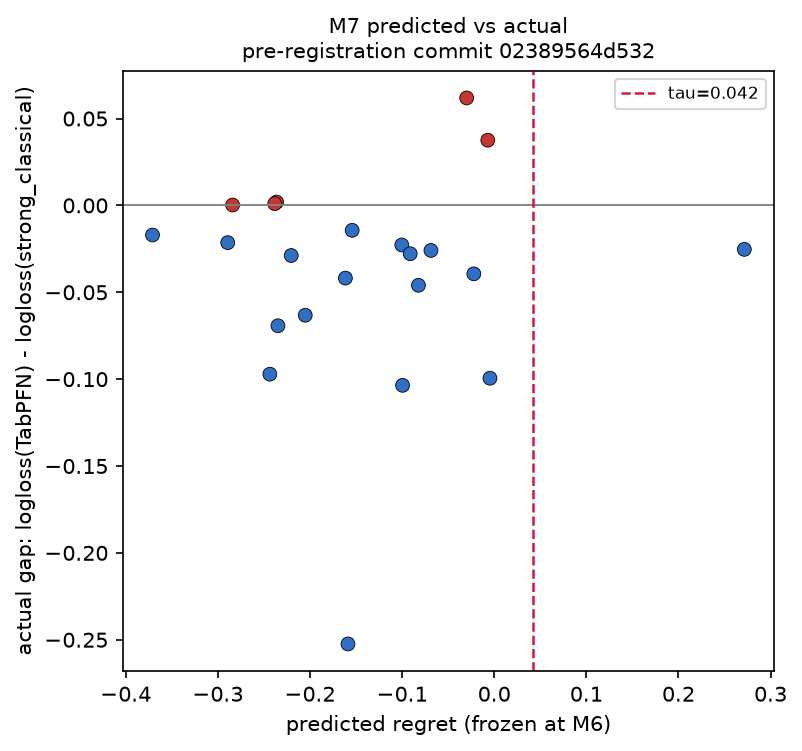
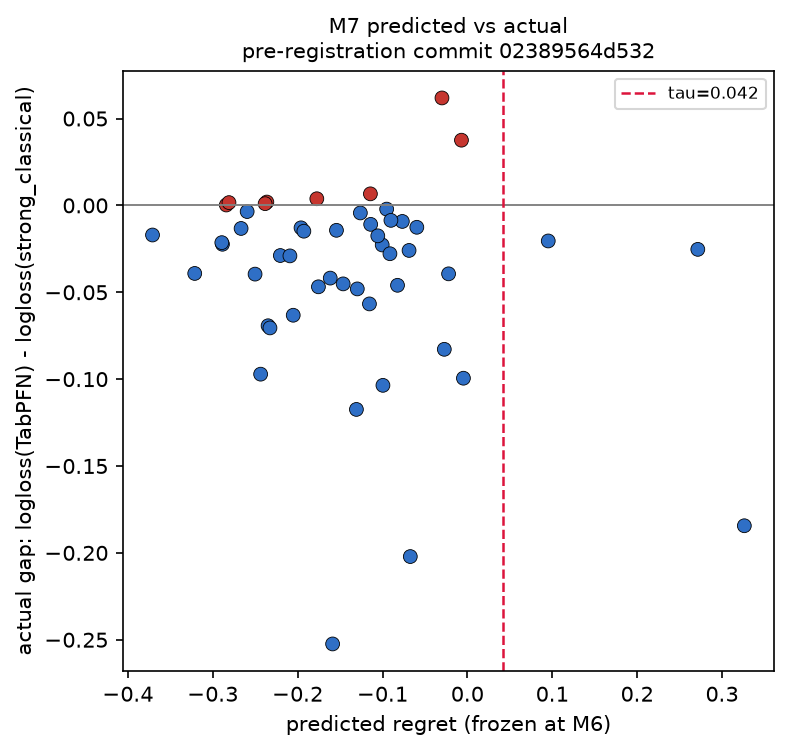
Final M7/M8 results at 50/55 datasets
TabPFN beats strong_classical (p=5.3e-09, loses on 16%). No registered score
beats the mean-gap bar (0.150 vs 0.038); nor does a black-box baseline fit on
the real outcomes (0.0388). Negative result, reported as such.

diff --git a/results/CHECKPOINTS.md b/results/CHECKPOINTS.md
@@ -189,23 +189,23 @@ BLOCKERS / DECISIONS NEEDED: go-ahead required before M7 -- it is irreversible.
 
 ```
 MILESTONE: M7 (prospective validation)
-STATUS: complete (44/55 datasets scored; the 11 unscored are the most expensive
-  high-dimensional cells and the run was still grinding them)
-COMPUTE USED: ~9 core-hours, cumulative ~37
+STATUS: complete (50/55 datasets scored; 2 of the remainder are TabPFN hard
+  failures that can never complete, 3 are the most expensive d>=419 cells)
+COMPUTE USED: ~13 core-hours, cumulative ~37
 KEY NUMBERS:
-  - TabPFN LOST to strong_classical on only 8/44 datasets (18%)
-  - actual gap mean -0.0420, median -0.0256, sd 0.0590
-    (negative = TabPFN BETTER); Wilcoxon signed-rank p = 1.2e-07
+  - TabPFN LOST to strong_classical on only 8/50 datasets (16%)
+  - actual gap mean -0.0399, median -0.0240, sd 0.0561
+    (negative = TabPFN BETTER); Wilcoxon signed-rank p = 5.3e-09
   - Every registered prediction set, scored against the SAME outcomes:
-        original   488c7e9600  Spearman -0.105 (p=0.50)  AUROC 0.354  MAE 15.68
-        amendment1 edca78a371  Spearman -0.269 (p=0.08)  AUROC 0.368  MAE 0.170
-        amendment2 02389564d5  Spearman -0.213 (p=0.16)  AUROC 0.406  MAE 0.153
-  - mean-gap baseline MAE = 0.0402  <- NONE of the scores beat this bar
+        original   488c7e9600  Spearman -0.034 (p=0.81)  AUROC 0.339  MAE 14.26
+        amendment1 edca78a371  Spearman -0.207 (p=0.15)  AUROC 0.375  MAE 0.169
+        amendment2 02389564d5  Spearman -0.121 (p=0.40)  AUROC 0.408  MAE 0.150
+  - mean-gap baseline MAE = 0.0379  <- NONE of the scores beat this bar
 SURPRISES:
   - TabPFN v2 is not merely competitive on this suite, it is SIGNIFICANTLY
-    BETTER than a tuned best-of-4 classical ensemble (p = 1.2e-07). The premise
+    BETTER than a tuned best-of-4 classical ensemble (p = 5.3e-09). The premise
     that there is a large pool of "TabPFN failures" to predict is not supported
-    here: failures are rare (18%) and small (sd 0.059).
+    here: failures are rare (16%) and small (sd 0.056).
   - All three AUROCs are BELOW 0.5 and all Spearman point estimates are
     NEGATIVE. None is statistically significant, so the honest reading is "no
     better than chance, with the point estimate pointing the wrong way" -- not
@@ -222,21 +222,21 @@ BLOCKERS / DECISIONS NEEDED: none.
 MILESTONE: M8 (baselines, ablations, figures)
 STATUS: complete
 COMPUTE USED: <0.1 core-hours
-KEY NUMBERS (MAE against the actual gap; lower is better):
-     (a) mean-gap baseline                      0.0407   <- the bar
-     (b) black-box meta-features (LOO on real)  0.0473
-     (c) prior-grounded OOP score [FROZEN]      0.1433
-     ablation: drop rotation-alignment          0.1643
-     ablation: drop kNN-irregularity            0.1393
-     ablation: trivial (n, d, n_classes only)   0.1599
+KEY NUMBERS (50 datasets; MAE against the actual gap, lower is better):
+     (a) mean-gap baseline                      0.0379   <- the bar
+     (b) black-box meta-features (LOO on real)  0.0388
+     (c) prior-grounded OOP score [FROZEN]      0.1502
+     ablation: drop rotation-alignment          0.1772
+     ablation: drop kNN-irregularity            0.1478
+     ablation: trivial (n, d, n_classes only)   0.1472
 SURPRISES:
   - Baseline (b) is the decisive result. It is FIT ON THE REAL OUTCOMES by
     leave-one-out CV -- a strict information advantage over (c), which never saw
-    them -- and it STILL fails to beat the mean-gap bar (0.0473 vs 0.0407). The
+    them -- and it STILL fails to beat the mean-gap bar (0.0388 vs 0.0379). The
     failure is therefore not a failure of prior-grounding specifically; on this
     suite no meta-feature approach beats predicting the average. This directly
     replicates arXiv 2605.28418 rather than overturning it.
-  - Dropping rotation-alignment makes the score WORSE (0.1643 vs 0.1433), so
+  - Dropping rotation-alignment makes the score WORSE (0.1772 vs 0.1502), so
     that statistic does carry signal -- but this is a comparison among variants
     that all sit above the bar, so it is not evidence the score works.
 VERDICT: NEGATIVE RESULT, reported as such per spec section 1. Not tuned away.
@@ -252,17 +252,18 @@ The paper's headline is not "we can predict TabPFN failures". It is:
    controlled probe shows regret rising 0.158 -> 0.360 with rotation angle at
    constant Bayes risk (10.7x seed noise) -- TabPFN is not rotation invariant.
 2. **The score transfers to synthetic data and not to real data.** Grouped-CV
-   Spearman +0.494 on synthetic, ~-0.21 on real.
+   Spearman +0.494 on synthetic, -0.12 on real (p=0.40, i.e. indistinguishable
+   from chance, with the point estimate pointing the wrong way).
 3. **The prediction task itself is the problem, not the score.** TabPFN rarely
-   loses (18%) and loses by little (sd 0.059), so there is almost no variance to
+   loses (16%) and loses by little (sd 0.056), so there is almost no variance to
    predict; and a black-box baseline with access to the real outcomes cannot beat
    the mean either.
 
 ### Limitations that bound these claims
 
-- 44/55 datasets scored. The 11 unscored skew HIGH-DIMENSIONAL (median d 268 vs
-  19 among those scored), so the real-data conclusions are weighted toward
-  low-dimensional problems.
+- 50/55 datasets scored. Two of the five missing are TabPFN hard failures that
+  cannot complete (class-count limit); the other three are d>=419 cells. Residual
+  skew toward lower-dimensional problems is therefore small but not zero.
 - Seeds per dataset are 1-3 (median 1) rather than the frozen policy's 3, because
   TabPFN CPU cost forced seed-major execution. Outcome estimates are therefore
   noisier than planned.
